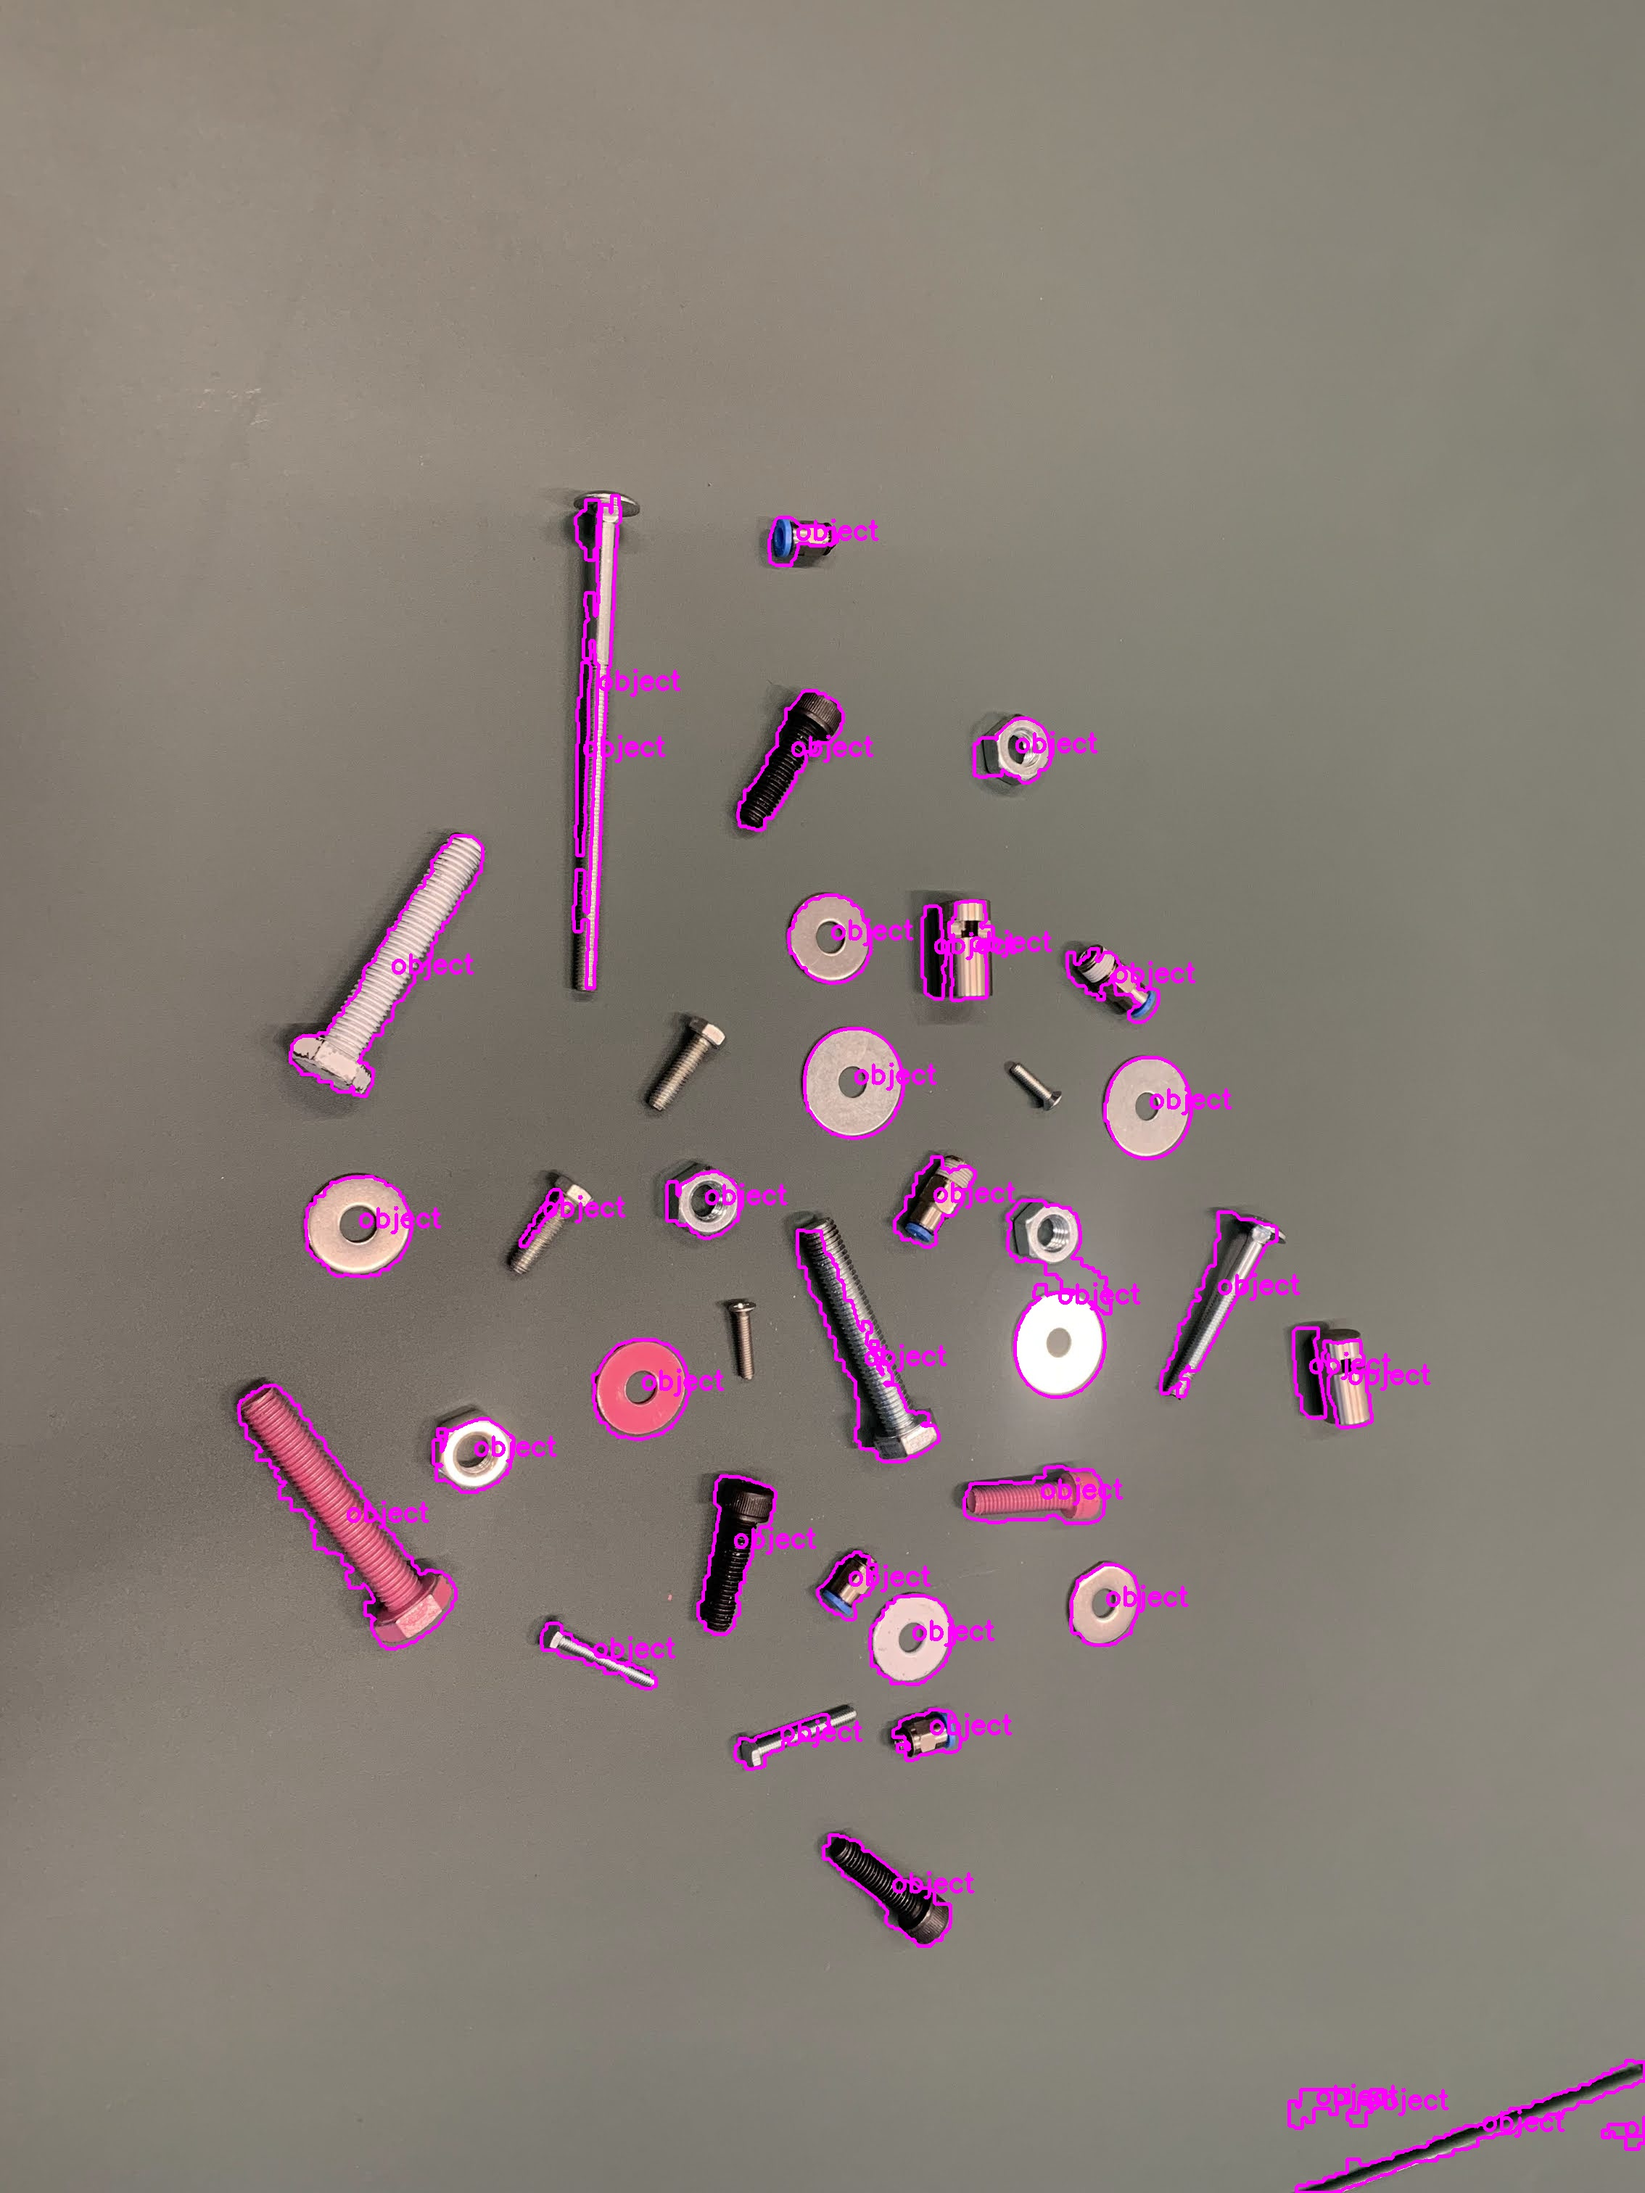
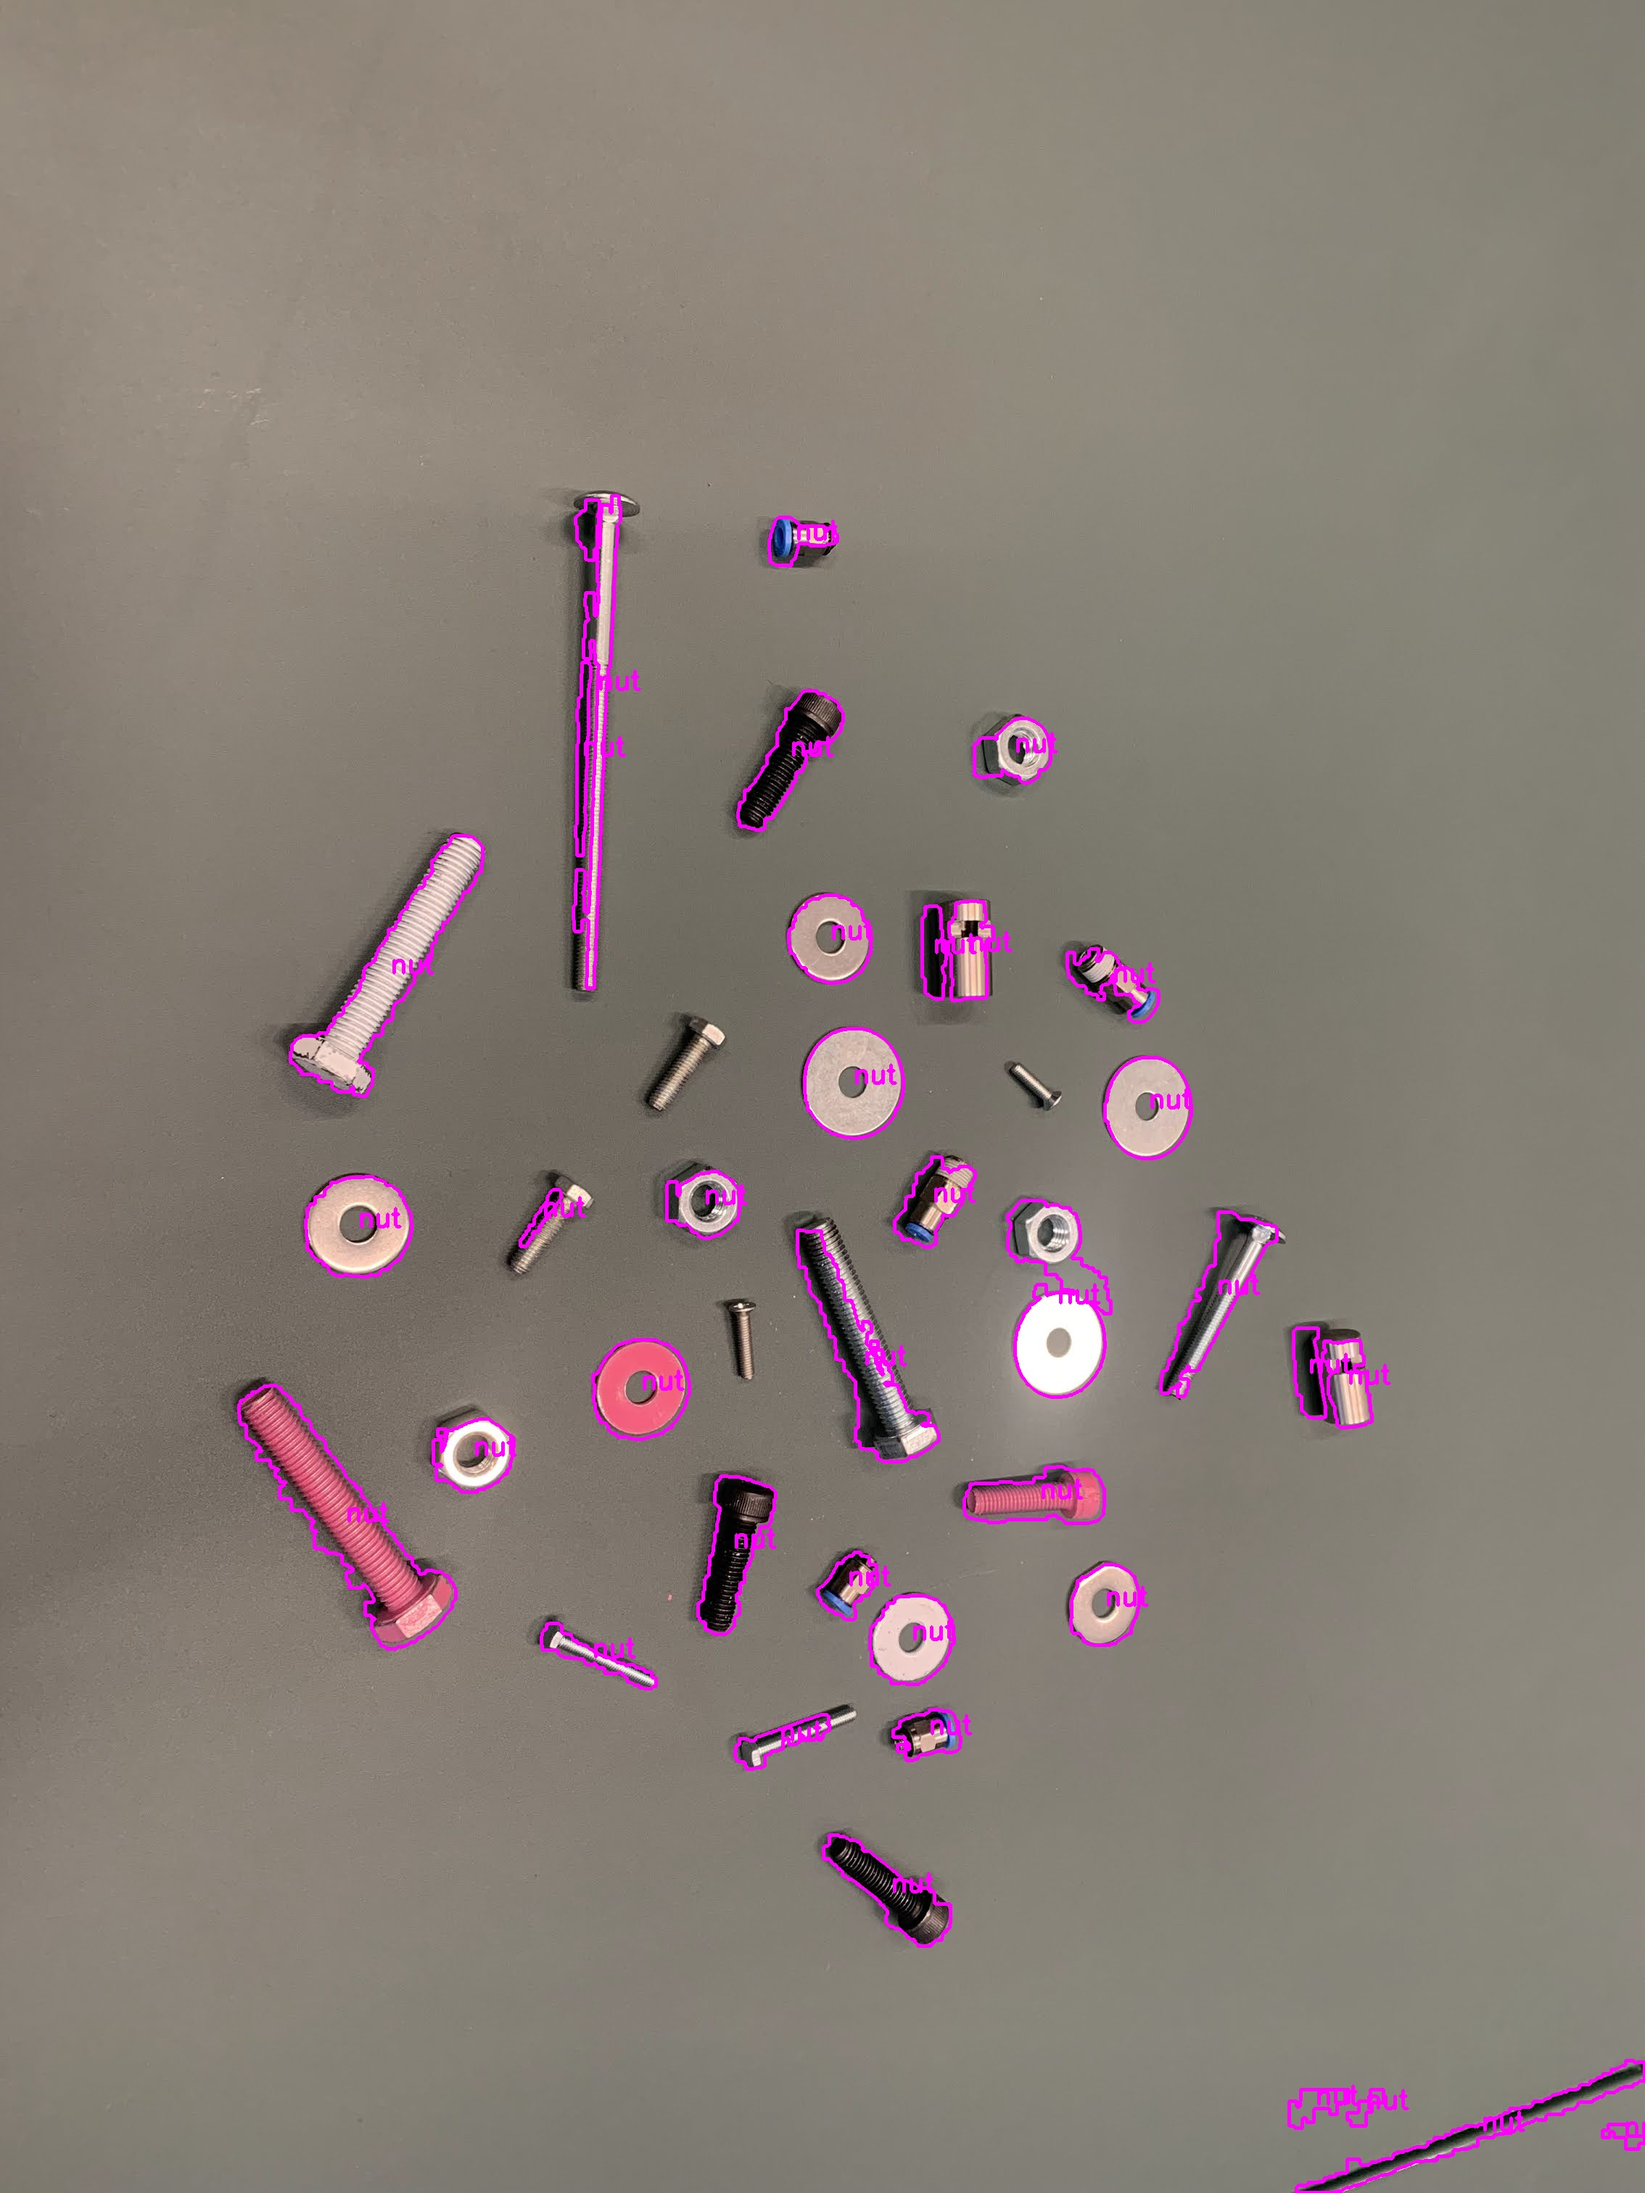
added dynamic class typing, more type-hinting and setup color detection

diff --git a/Conventional.py b/Conventional.py
@@ -44,7 +44,7 @@ output_dir  = None # later defined
 lower_color = (10,     20,      35)
 upper_color = (30,     200,     180)
 
-# how big the smallest area should be, the other ones get filtered away.
+# how big the smallest area should be, the other ones get filtered.
 filter_contour_area = 900
 
 # how big the kernel should be for the dilation / erosion.
@@ -104,7 +104,7 @@ for img in images:
             
             # -=- add to list -=- #
             item = object(contour, identified_item, (cX, cY), angle, color)
-            img.add_contour(item.outline)
+            img.add_contour(item)
             # img.contours = lijst aan contouren -> img.contours = lijst aan objects
 
     print("found", len(img.contours), "contours in", img.name)
@@ -112,19 +112,11 @@ for img in images:
     # -=-=- draw contours and put text -=-=- #
     # to make a specific contour, use cnt = contours[1], and cnt as a var (instead of img.contours)
     
-    cv.drawContours(img.cv_image, img.contours, -1, (255,0,255), 3)
-    
     for contour in range(len(img.contours)):
         
-        M = cv.moments(img.contours[contour])
-
-        cX = int(M['m10'] / M['m00'])
-        cY = int(M['m01'] / M['m00'])
+        cv.drawContours(img.cv_image, img.contours[contour].outline, -1, (255,0,255), 3)
         
-        # TODO: Change to which object we need to indentify
-        text = "object"
-        
-        cv.putText(img.cv_image, text, (cX, cY), cv.FONT_HERSHEY_SIMPLEX, 1.2, (255, 0, 255), 3)
+        cv.putText(img.cv_image, img.contours[contour].kind_of_object, img.contours[contour].position, cv.FONT_HERSHEY_SIMPLEX, 1.2, (255, 0, 255), 3)
     
     # -=-=- save image -=-=- #
     output_dir  = os.path.join(root_dir,'output_conventional', img.name)
